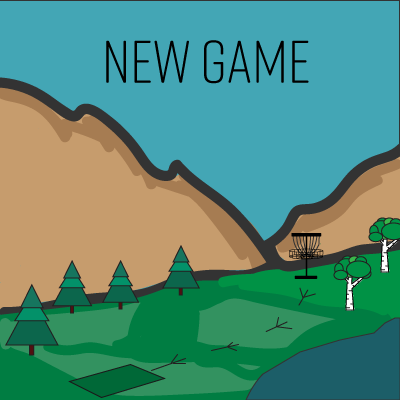
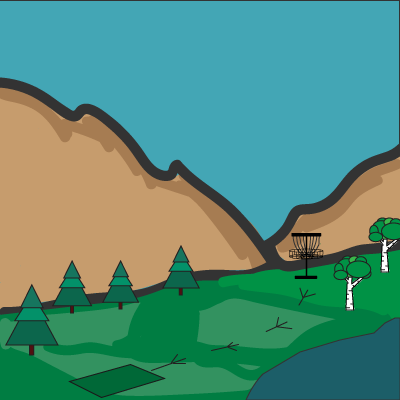
etusivu fixausta

Changed region(s): [[0.51, 0.09, 0.78, 0.21], [0.24, 0.09, 0.48, 0.21]]

diff --git a/src/components/main.js b/src/components/main.js
@@ -14,80 +14,93 @@ import {globalStyles} from '../res/styles';
 export default class MainButton extends Component {
   render() {
     return (
-      <View style={[{height: '100%'}]}>
-          <Grid>
-            <Col size={50} >
-              <Row size={50}>
+      <View 
+        style={[{
+            height: '100%'
+        }]}>
+        
+    <Grid>
+        <Col style={style.col}>
+            <Row style={style.row}>
                 <TouchableOpacity onPress={() => this.props.navigation.navigate('Tracking')}>
                   <Card>
                     <CardItem cardBody>
-                      <ImageBackground source={require('../res/images/new_game_card.png')} style={[style.image, globalStyles.centerContent]}>
-                          <Text style={[globalStyles.bgTransparent]}>   </Text>
+                      <ImageBackground source={require('../res/images/new_game_card.png')} style={[style.image]}>
+                          <Text style={[globalStyles.bgTransparent,globalStyles.textTop]}>NEW GAME</Text>
                           <Text style={[globalStyles.bgTransparent]} note>      </Text>
                       </ImageBackground>
                     </CardItem>
                   </Card>
-                </TouchableOpacity>
-              </Row>
-              <Row size={50}>
-                <TouchableOpacity onPress={() => this.props.navigation.navigate('Summary')}>
-                  <Card>
+                 </TouchableOpacity>
+            </Row>
+                          
+            <Row style={style.row}>
+                <TouchableOpacity onPress={() => this.props.navigation.navigate('Summary')}>    
+                  <Card >
                     <CardItem cardBody>
-                      <ImageBackground source={require('../res/images/trophy_card.png')} style={[style.image, globalStyles.centerContent]}>
-                        <Text style={[globalStyles.bgTransparent, globalStyles.textDefault]}>hello</Text>
+                      <ImageBackground source={require('../res/images/statistic_card.png')} style={[style.image]}>
+                        <Text style={[globalStyles.bgTransparent, globalStyles.bgTransparent,globalStyles.textTop]}>STATISTICS</Text>
                       </ImageBackground>
                     </CardItem>
-                  </Card>
+                  </Card>    
                 </TouchableOpacity>
-              </Row>
-            </Col>
+            </Row>
+        </Col>
 
-            <Col size={50} >
-              <Row size={50}>
+        <Col style={style.col} >
+            <Row style={style.row}>
                 <TouchableOpacity onPress={() => this.props.navigation.navigate('Summary')}>
                   <Card>
                     <CardItem cardBody>
-                      <ImageBackground source={require('../res/images/summary_card.png')} style={[style.image, globalStyles.centerContent]}>
-                          <Text style={[globalStyles.bgTransparent]}>       </Text>
+                        
+                      <ImageBackground source={require('../res/images/summary_card.png')} style={[style.image]}>
+                          <Text style={[globalStyles.bgTransparent, globalStyles.bgTransparent,globalStyles.textTop]}>   SUMMARY    </Text>
                           <Text style={[globalStyles.bgTransparent]} note>      </Text>
                       </ImageBackground>
                     </CardItem>
                   </Card>
                 </TouchableOpacity>
-              </Row>
-              <Row size={50}>
+            </Row>
+                                                  
+                                                  
+            <Row style={style.row}>
                 <TouchableOpacity onPress={() => this.props.navigation.navigate('Tracking')}>
                   <Card>
                     <CardItem cardBody>
-                      <ImageBackground source={require('../res/images/newgame_card.png')} style={[style.image, globalStyles.centerContent]}>
+                      <ImageBackground source={require('../res/images/newgame_card.png')} style={[style.image]}>
                           <Text style={[globalStyles.bgTransparent]} >New Game</Text>
                           <Text style={[globalStyles.bgTransparent]} note>Start a new game</Text>
                       </ImageBackground>
                     </CardItem>
                   </Card>
                 </TouchableOpacity>
-              </Row>
-            </Col>
-          </Grid>
-
-          {/* <Button style={[styles.buttonPrimary]}>
-            <Text>natibve base nappi</Text>
-          </Button> */}
+            </Row>
+        </Col>
+        </Grid>
       </View>
     );
   }
 }
 
 const style = StyleSheet.create({
-  image: {
-    // resizeMode: 'cover'
-    width: 200,
-    height: 300
-    // height: '100%'
+  card:{
+    flex:1,
+
   },
+    image: {
+       /* resizeMode: 'cover',*/
+        /*flex: 1 */ 
+        height:300,
+        width:250
+    },
     col: {
+        flex:1,
         margin:0,
         padding:0
+    },
+    row:{
+        flex:1
     }
+    
     
 });

diff --git a/src/res/styles/index.js b/src/res/styles/index.js
@@ -82,7 +82,11 @@ const helpers = StyleSheet.create({
   },
   textCenter: {
     justifyContent: 'center'
-  }
+  },
+  textTop:{
+    fontSize:30
+    
+  },
 });
 
 const layout = StyleSheet.create({
@@ -110,3 +114,4 @@ export const globalStyles = {
   ...layout,
   ...buttons
 };
+
